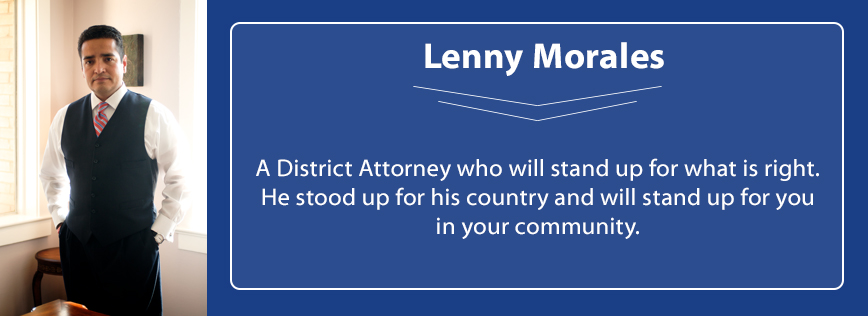
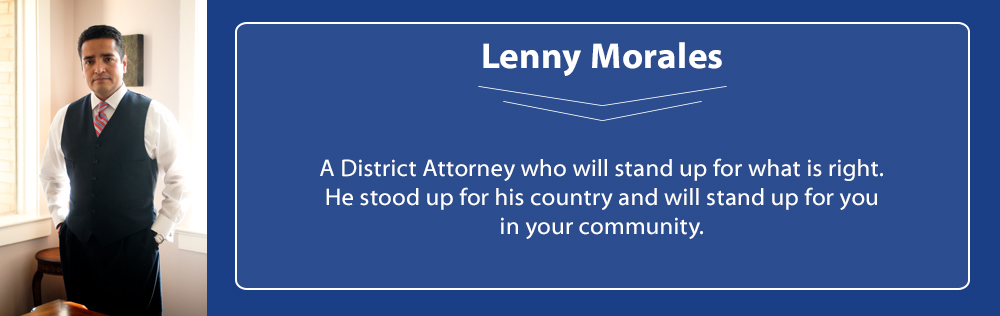
Adjusting Images and Padding

diff --git a/css/style.css b/css/style.css
@@ -1,3 +1,7 @@
+section {
+	padding: 0;
+}
+
 /* My Carousel */
 .my_carousel {
 }
